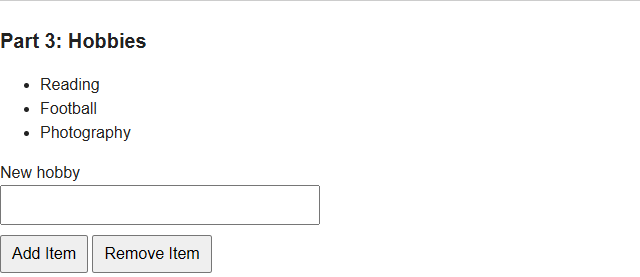
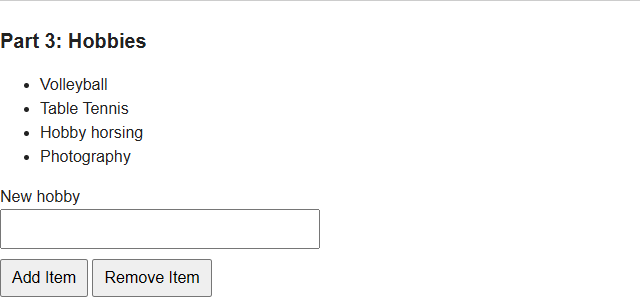
assignment5

diff --git a/script.js b/script.js
@@ -1,8 +1,8 @@
 const userProfile = {
   name: "Yerali",
   birthYear: 2007,
-  isDeveloper: false,
-  hobbies: ["Reading", "Football"]
+  isDeveloper: true,
+  hobbies: ["Volleyball", "Table Tennis", "Hobby horsing"]
 };
 
 const usernameInput = document.getElementById("username");
